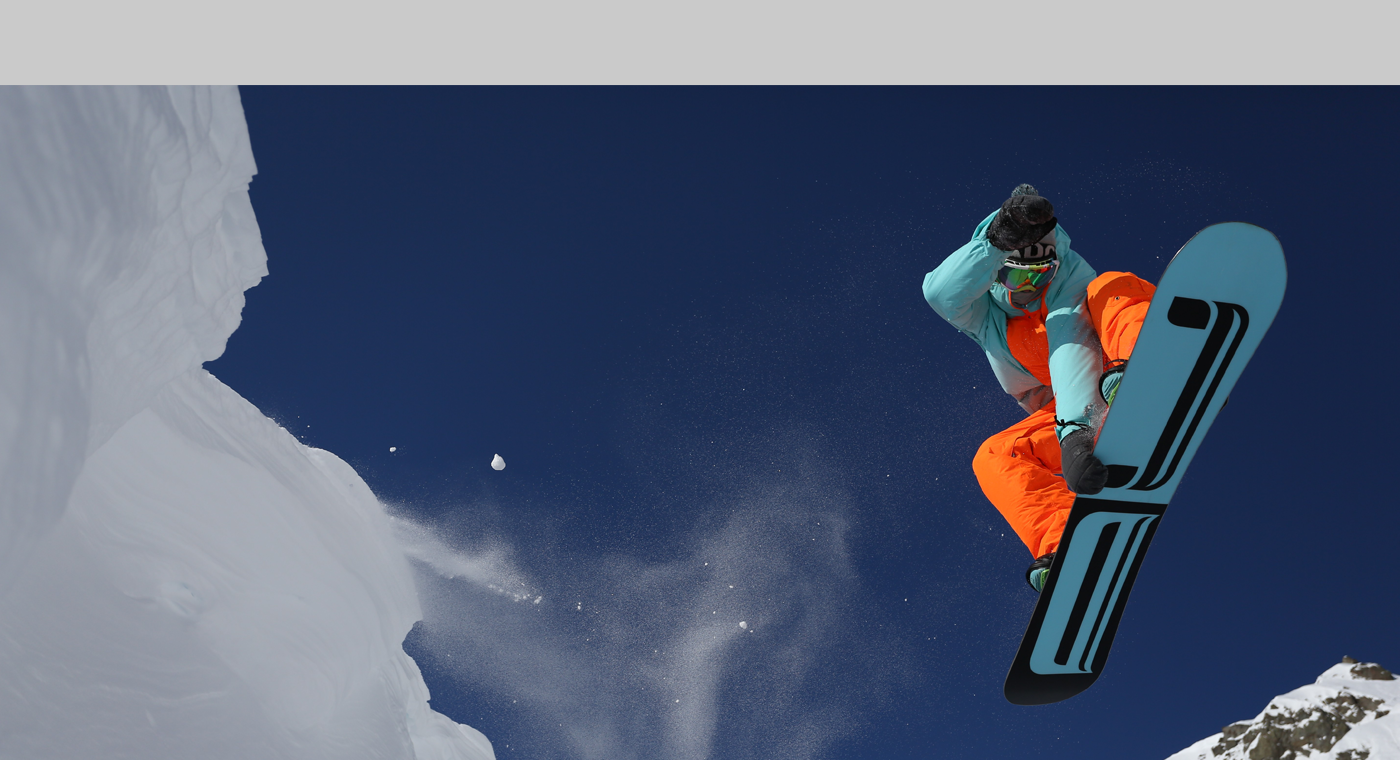
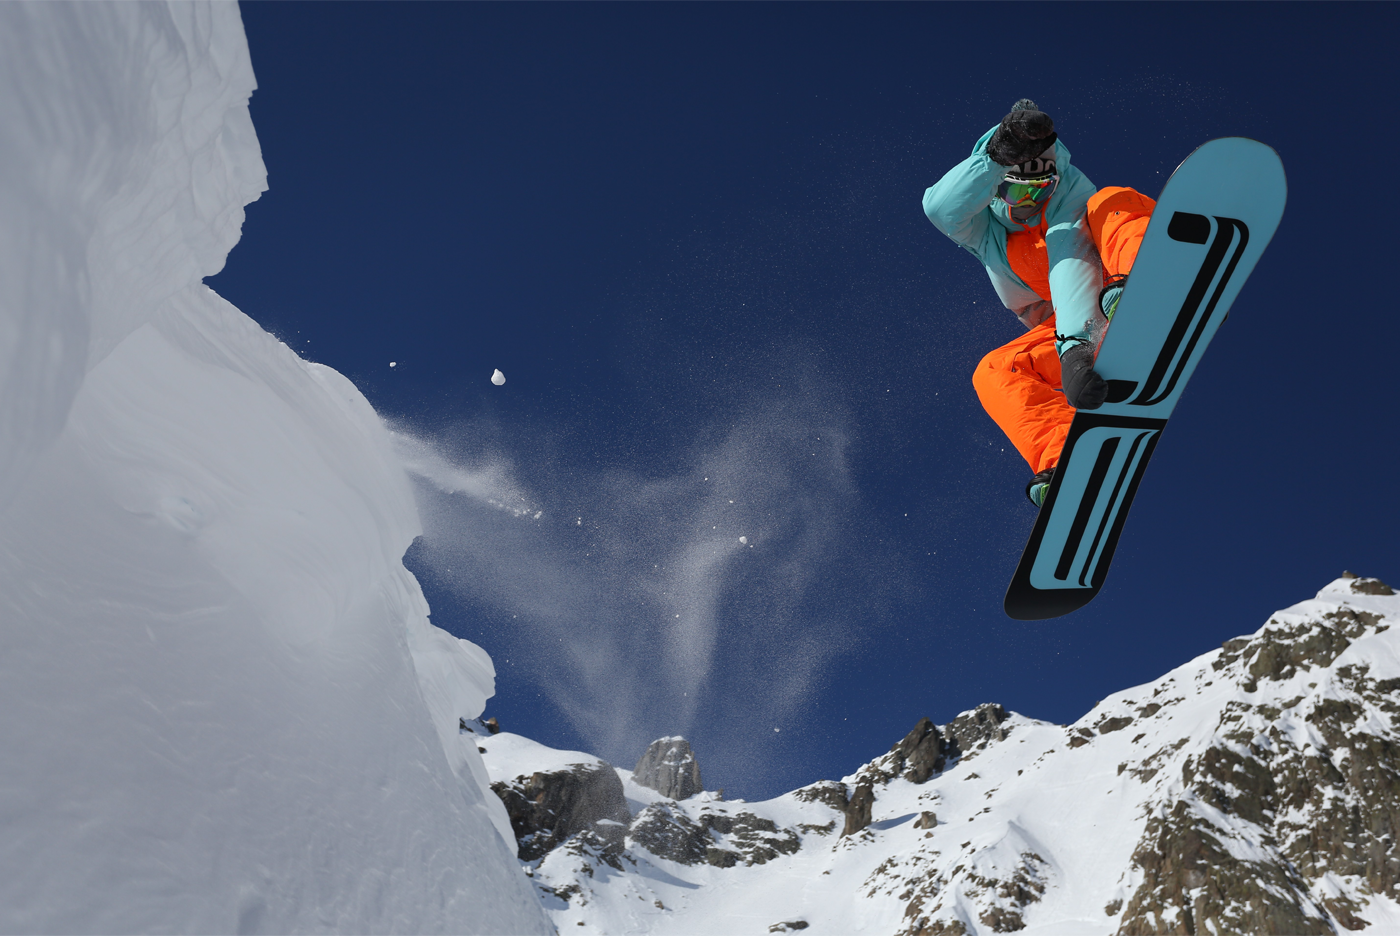
main

diff --git a/app/css/style.min.css b/app/css/style.min.css
@@ -1,1 +1,1 @@
-html{-webkit-box-sizing:border-box;box-sizing:border-box}*,*::before,*::after{-webkit-box-sizing:inherit;box-sizing:inherit}body{font-family:"ProximaNova-Regular";font-size:16px;color:#000;font-weight:400}.container{max-width:1170px;margin:0 auto;padding:0 20px}@font-face{font-family:"ProximaNova-Extrabld";src:url("../fonts/ProximaNova-Extrabld.woff2") format("woff2"),url("../fonts/ProximaNova-Extrabld.woff") format("woff");font-weight:800;font-display:swap}@font-face{font-family:"ProximaNova-Regular";src:url("../fonts/ProximaNova-Regular.woff2") format("woff2"),url("../fonts/ProximaNova-Regular.woff") format("woff");font-weight:400;font-display:swap}@font-face{font-family:"ProximaNova-Semibold";src:url("../fonts/ProximaNova-Semibold.woff2") format("woff2"),url("../fonts/ProximaNova-Semibold.woff") format("woff");font-weight:600;font-display:swap}.header__top{background-color:#000;display:-webkit-box;display:-ms-flexbox;display:flex;-webkit-box-pack:justify;-ms-flex-pack:justify;justify-content:space-between;padding:0 82px;height:109px;-webkit-box-align:center;-ms-flex-align:center;align-items:center}.header__wrap{display:-webkit-box;display:-ms-flexbox;display:flex}.header__list{display:-webkit-box;display:-ms-flexbox;display:flex}.header__list-item{list-style:none}.header__list-link{position:relative;color:#fff;font-weight:600;font-size:13px;text-transform:uppercase;text-decoration:none;margin-right:28px;-webkit-transition:0.5s;-o-transition:0.5s;transition:0.5s}.header__list-link::before{content:"";position:absolute;width:100%;height:2px;background-color:#fff;bottom:-20px;opacity:0;-webkit-transition:0.5s;-o-transition:0.5s;transition:0.5s}.header__list-link:hover{color:#00FFFF}.header__list-link:hover::before{opacity:1}.header__box{display:-webkit-box;display:-ms-flexbox;display:flex}.header__search{margin-right:32px;background-color:#000;height:70px;border-radius:50px;padding:10px}.search-txt{border:none;background-color:none;outline:none;float:left;padding:0;color:#fff;font-size:16px;-webkit-transition:0.5s;-o-transition:0.5s;transition:0.5s;line-height:40px;width:0px;background-color:transparent}.search-btn{color:#fff;float:right;width:40px;height:40px;border-radius:50%;background-color:#000;display:-webkit-box;display:-ms-flexbox;display:flex;-webkit-box-pack:center;-ms-flex-pack:center;justify-content:center;-webkit-box-align:center;-ms-flex-align:center;align-items:center;text-decoration:none}.header__search:hover>.search-txt{width:240px;padding:0 6px}.header__search:hover>.search-btn{background-color:#fff;color:#000}.header__bag{color:#fff;height:70px;padding:20px 10px}.header__bag-link{color:#fff;margin-right:5px}.header__slider{position:relative;max-width:100%;height:100vh;background-position:center top;background-size:cover;margin:0;padding:0;z-index:100}.header__info-one{max-width:480px;text-align:center;position:absolute;top:20%;left:28%}.header__info-two{position:absolute;max-width:500px;text-align:center;top:50%;left:50%;font-size:80px;font-weight:800;font-family:"ProximaNova-Extrabld", sans-serif}.header__info-title--white{text-align:left;display:inline-block;font-size:80px;font-weight:800;color:#fff;text-transform:uppercase}.header__info-link{position:relative;float:right;padding:19px 33px;background-color:#000;color:#fff;font-size:14px;text-transform:uppercase;text-decoration:none;font-weight:800;font-family:"ProximaNova-Extrabld", sans-serif;-webkit-transition:all 300ms ease;-o-transition:all 300ms ease;transition:all 300ms ease}.header__info-link:before{position:absolute;content:'';width:0%;height:100%;background:#fff;top:0;left:auto;right:0;z-index:-1;-webkit-transition:all 300ms ease;-o-transition:all 300ms ease;transition:all 300ms ease}.header__info-link:hover{color:#000;-webkit-box-shadow:none;box-shadow:none;z-index:3}.header__info-link:hover:before{position:absolute;content:'';width:100%;height:100%;background:#fff;top:0;left:0;right:0;z-index:-1}.header__info-two{max-width:480px;text-align:center;position:absolute;top:30%;left:25%}.header__info-title--black{display:inline-block;text-align:left;display:inline-block;font-size:80px;font-weight:800;color:#000;text-transform:uppercase}.snowboards{padding:158px 0}.snowboards__top{text-align:center;padding-bottom:100px;position:relative}.snowboards__top-title{font-family:"ProximaNova-Extrabld", sans-serif;font-size:48px;font-weight:800;text-transform:uppercase;margin-bottom:40px}.snowboards__top-subtext{text-transform:uppercase;font-family:"ProximaNova-Regular", sans-serif;font-size:14px}.close{position:absolute;left:49%;bottom:20%}.close:before,.close:after{content:"";position:absolute;width:32px;height:3px;background:#000}.close:before{webkit-transform:rotate(45deg);-webkit-transform:rotate(45deg);-ms-transform:rotate(45deg);transform:rotate(45deg)}.close:after{webkit-transform:rotate(-45deg);-webkit-transform:rotate(-45deg);-ms-transform:rotate(-45deg);transform:rotate(-45deg)}.snowboards__contents{padding-bottom:50px}.snowboards__slider{margin:0 90px;opacity:0.2;counter-increment:snowboards__slider}.snowboards__slider:before{display:block;text-align:center;content:counter(snowboards__slider);color:transparent}.snowboards__slider.is-selected{opacity:1}.snowboards__wrap-text{font-family:"ProximaNova-Semibold", sans-serif;text-align:center;font-size:24px;text-transform:uppercase}.about{padding:200px 0;background-position:center right;background-size:cover;background-image:url(../images/about/bg.jpg);background-repeat:no-repeat}.about__inner-title{font-family:"ProximaNova-Extrabld", sans-serif;max-width:480px;color:#fff;font-size:48px;text-transform:uppercase;margin-bottom:90px}.about__info{max-width:670px}.about__info-text{font-size:15px;line-height:30px;color:#fff;margin-bottom:50px}.about__info-subtext{font-size:15px;line-height:30px;color:#fff}.features{padding:125px 0}.features__top{text-align:center;margin-bottom:125px;position:relative}.features__top-title{font-family:"ProximaNova-Extrabld", sans-serif;font-size:48px;font-weight:800;text-transform:uppercase;margin-bottom:40px}.close-1{bottom:-50%;position:absolute;left:49%}.close-1:before,.close-1:after{content:"";position:absolute;width:32px;height:3px;background:#000}.close-1:before{webkit-transform:rotate(45deg);-webkit-transform:rotate(45deg);-ms-transform:rotate(45deg);transform:rotate(45deg)}.close-1:after{webkit-transform:rotate(-45deg);-webkit-transform:rotate(-45deg);-ms-transform:rotate(-45deg);transform:rotate(-45deg)}.features__items{-ms-flex-wrap:wrap;flex-wrap:wrap;display:-webkit-box;display:-ms-flexbox;display:flex;-webkit-box-pack:justify;-ms-flex-pack:justify;justify-content:space-between}.features__item{max-width:220px;padding-bottom:20px;margin:0 10px}.features__item-img{margin-bottom:25px}.features__item-title{font-family:"ProximaNova-Semibold", sans-serif;font-size:16px;line-height:30px}.footer{background-color:#000;padding:77px 0}.footer__inner{display:-webkit-box;display:-ms-flexbox;display:flex;-webkit-box-pack:justify;-ms-flex-pack:justify;justify-content:space-between;color:#fff;-ms-flex-wrap:wrap;flex-wrap:wrap;margin:0 auto}.footer__products{margin-right:10px;margin-bottom:30px}.footer__products-title{font-family:"ProximaNova-Extrabld", sans-serif;font-size:17px;text-transform:uppercase;margin-bottom:30px}.footer__list{padding:0}.footer__list-item{list-style:none;margin-bottom:20px}.footer__list-link{color:#c9c9c9;text-decoration:none;-webkit-transition:all 0.5s;-o-transition:all 0.5s;transition:all 0.5s}.footer__list-link:hover{color:#00FFFF}.footer__about{margin-right:10px;margin-bottom:30px}.footer__about-title{font-family:"ProximaNova-Extrabld", sans-serif;font-size:17px;text-transform:uppercase;margin-bottom:30px}.footer__support{margin-right:10px;margin-bottom:30px}.footer__support-title{font-family:"ProximaNova-Extrabld", sans-serif;font-size:17px;text-transform:uppercase;margin-bottom:30px}.footer__newsletter{margin-right:10px;margin-bottom:30px}.footer__newsletter-title{font-family:"ProximaNova-Extrabld", sans-serif;font-size:17px;text-transform:uppercase;margin-bottom:30px}.footer__form{display:-webkit-box;display:-ms-flexbox;display:flex;-webkit-box-pack:end;-ms-flex-pack:end;justify-content:flex-end;max-width:100%;margin-bottom:60px}.footer__input{position:relative;width:220px;height:43px;padding:0 60px 0 15px;outline:none;border:none;font-size:14px;color:#6c6c6c}.footer__btn{display:inline-block;position:absolute;font-family:"ProximaNova-Extrabld", sans-serif;font-size:15px;text-transform:uppercase;outline:none;border:none;background-color:#c7c7c7;padding:13px 17px;cursor:pointer;-webkit-transition:0.5s;-o-transition:0.5s;transition:0.5s}.footer__btn:hover{background-color:#9fc9c9}.footer__messangers{display:-webkit-box;display:-ms-flexbox;display:flex;-webkit-box-pack:justify;-ms-flex-pack:justify;justify-content:space-between}.footer__messangers-link{color:#fff;font-size:20px}.fa-facebook-f{-webkit-transition:all 0.5s;-o-transition:all 0.5s;transition:all 0.5s}.fa-facebook-f:hover{color:#0000FF}.fa-twitter{-webkit-transition:all 0.5s;-o-transition:all 0.5s;transition:all 0.5s}.fa-twitter:hover{color:#00BFFF}.fa-instagram{-webkit-transition:all 0.5s;-o-transition:all 0.5s;transition:all 0.5s}.fa-instagram:hover{color:#FF0000}.fa-pinterest-p{-webkit-transition:all 0.5s;-o-transition:all 0.5s;transition:all 0.5s}.fa-pinterest-p:hover{color:#DC143C}.fa-youtube{-webkit-transition:all 0.5s;-o-transition:all 0.5s;transition:all 0.5s}.fa-youtube:hover{color:#800000}@media (max-width: 1154px){.header__search:hover>.search-txt{width:140px;padding:0 6px}}@media (max-width: 1057px){.header__search:hover>.search-txt{width:120px;padding:0 6px}}@media (max-width: 1041px){.header__search:hover>.search-txt{width:120px;padding:0 6px}.menu-btn{position:absolute;right:0;display:-webkit-box;display:-ms-flexbox;display:flex;-webkit-box-pack:center;-ms-flex-pack:center;justify-content:center;-webkit-box-align:center;-ms-flex-align:center;align-items:center;width:80px;height:80px;cursor:pointer;-webkit-transition:all .5s ease-in-out;-o-transition:all .5s ease-in-out;transition:all .5s ease-in-out}.menu-btn__burger{width:40px;height:4px;background:#fff;border-radius:5px;-webkit-box-shadow:0 2px 5px rgba(255,101,47,0.2);box-shadow:0 2px 5px rgba(255,101,47,0.2);-webkit-transition:all .5s ease-in-out;-o-transition:all .5s ease-in-out;transition:all .5s ease-in-out}.menu-btn__burger::before,.menu-btn__burger::after{content:'';position:absolute;width:40px;height:4px;background:#fff;border-radius:5px;-webkit-box-shadow:0 2px 5px rgba(255,101,47,0.2);box-shadow:0 2px 5px rgba(255,101,47,0.2);-webkit-transition:all .5s ease-in-out;-o-transition:all .5s ease-in-out;transition:all .5s ease-in-out}.menu-btn__burger::before{-webkit-transform:translateY(-16px);-ms-transform:translateY(-16px);transform:translateY(-16px)}.menu-btn__burger::after{-webkit-transform:translateY(16px);-ms-transform:translateY(16px);transform:translateY(16px)}.menu-btn.open .menu-btn__burger{-webkit-transform:translateX(-50px);-ms-transform:translateX(-50px);transform:translateX(-50px);background:transparent;-webkit-box-shadow:none;box-shadow:none}.menu-btn.open .menu-btn__burger::before{-webkit-transform:rotate(45deg) translate(35px, -35px);-ms-transform:rotate(45deg) translate(35px, -35px);transform:rotate(45deg) translate(35px, -35px)}.menu-btn.open .menu-btn__burger::after{-webkit-transform:rotate(-45deg) translate(35px, 35px);-ms-transform:rotate(-45deg) translate(35px, 35px);transform:rotate(-45deg) translate(35px, 35px)}.header__list{display:none;position:absolute;top:93px;left:0;right:0;width:100%;z-index:1000;background-color:#ffffff;bottom:-130px;padding:37px;border-bottom:4px solid #11749e}.header__list-item{display:block;text-align:center;padding:30px 0}.header__list-link{color:#000;font-size:25px}.header__search{display:none}.header__bag{display:none}}@media (max-width: 748px){.header__info-title--white{font-size:60px}.header__info-title--black{font-size:60px}.header__info-link{-webkit-box-align:center;-ms-flex-align:center;align-items:center;float:none;position:relative;right:-10%}}@media (max-width: 525px){.header__slider{background-position:right}}@media (max-width: 511px){.header__info-one{left:5%}.header__info-two{left:5%}.header__info-title--white{font-size:40px;max-width:320px}.header__info-title--black{font-size:40px;max-width:320px}.header__info-link{-webkit-box-align:center;-ms-flex-align:center;align-items:center;float:none;position:relative;right:5%}}@media (max-width: 512px){.features__item{margin:0 auto}}@media (max-width: 445px){.about__inner-title{font-size:30px;width:none;text-align:center}}@media (max-width: 352px){.snowboards__top-title{font-size:30px}.snowboards__wrap-text{font-size:20px}}@media (max-width: 340px){.footer__inner{-webkit-box-pack:center;-ms-flex-pack:center;justify-content:center;text-align:center;-webkit-box-align:center;-ms-flex-align:center;align-items:center;text-align:center}}
+html{-webkit-box-sizing:border-box;box-sizing:border-box}*,*::before,*::after{-webkit-box-sizing:inherit;box-sizing:inherit}body{font-family:"ProximaNova-Regular";font-size:16px;color:#000;font-weight:400}.container{max-width:1170px;margin:0 auto;padding:0 20px}@font-face{font-family:"ProximaNova-Extrabld";src:url("../fonts/ProximaNova-Extrabld.woff2") format("woff2"),url("../fonts/ProximaNova-Extrabld.woff") format("woff");font-weight:800;font-display:swap}@font-face{font-family:"ProximaNova-Regular";src:url("../fonts/ProximaNova-Regular.woff2") format("woff2"),url("../fonts/ProximaNova-Regular.woff") format("woff");font-weight:400;font-display:swap}@font-face{font-family:"ProximaNova-Semibold";src:url("../fonts/ProximaNova-Semibold.woff2") format("woff2"),url("../fonts/ProximaNova-Semibold.woff") format("woff");font-weight:600;font-display:swap}.header__top{background-color:#000;display:-webkit-box;display:-ms-flexbox;display:flex;-webkit-box-pack:justify;-ms-flex-pack:justify;justify-content:space-between;padding:0 82px;height:109px;-webkit-box-align:center;-ms-flex-align:center;align-items:center}.header__wrap{display:-webkit-box;display:-ms-flexbox;display:flex}.header__list{display:-webkit-box;display:-ms-flexbox;display:flex}.header__list-item{list-style:none}.header__list-link{position:relative;color:#fff;font-weight:600;font-size:13px;text-transform:uppercase;text-decoration:none;margin-right:28px;-webkit-transition:0.5s;-o-transition:0.5s;transition:0.5s}.header__list-link::before{content:"";position:absolute;width:100%;height:2px;background-color:#fff;bottom:-20px;opacity:0;-webkit-transition:0.5s;-o-transition:0.5s;transition:0.5s}.header__list-link:hover{color:#00FFFF}.header__list-link:hover::before{opacity:1}.header__box{display:-webkit-box;display:-ms-flexbox;display:flex}.header__search{margin-right:32px;background-color:#000;height:70px;border-radius:50px;padding:10px}.search-txt{border:none;background-color:none;outline:none;float:left;padding:0;color:#fff;font-size:16px;-webkit-transition:0.5s;-o-transition:0.5s;transition:0.5s;line-height:40px;width:0px;background-color:transparent}.search-btn{color:#fff;float:right;width:40px;height:40px;border-radius:50%;background-color:#000;display:-webkit-box;display:-ms-flexbox;display:flex;-webkit-box-pack:center;-ms-flex-pack:center;justify-content:center;-webkit-box-align:center;-ms-flex-align:center;align-items:center;text-decoration:none}.header__search:hover>.search-txt{width:240px;padding:0 6px}.header__search:hover>.search-btn{background-color:#fff;color:#000}.header__bag{color:#fff;height:70px;padding:20px 10px}.header__bag-link{color:#fff;margin-right:5px}.header__slider{position:relative;max-width:1300px;height:100vh;background-position:center top;background-size:cover;margin:0;padding:0;z-index:100}.header__info-one{max-width:480px;text-align:center;position:absolute;top:20%;left:28%}.header__info-two{position:absolute;max-width:500px;text-align:center;top:50%;left:50%;font-size:80px;font-weight:800;font-family:"ProximaNova-Extrabld", sans-serif}.header__info-title--white{text-align:left;display:inline-block;font-size:80px;font-weight:800;color:#fff;text-transform:uppercase}.header__info-link{position:relative;float:right;padding:19px 33px;background-color:#000;color:#fff;font-size:14px;text-transform:uppercase;text-decoration:none;font-weight:800;font-family:"ProximaNova-Extrabld", sans-serif;-webkit-transition:all 300ms ease;-o-transition:all 300ms ease;transition:all 300ms ease}.header__info-link:before{position:absolute;content:'';width:0%;height:100%;background:#fff;top:0;left:auto;right:0;z-index:-1;-webkit-transition:all 300ms ease;-o-transition:all 300ms ease;transition:all 300ms ease}.header__info-link:hover{color:#000;-webkit-box-shadow:none;box-shadow:none;z-index:3}.header__info-link:hover:before{position:absolute;content:'';width:100%;height:100%;background:#fff;top:0;left:0;right:0;z-index:-1}.header__info-two{max-width:480px;text-align:center;position:absolute;top:30%;left:25%}.header__info-title--black{display:inline-block;text-align:left;display:inline-block;font-size:80px;font-weight:800;color:#000;text-transform:uppercase}.snowboards{padding:158px 0}.snowboards__top{text-align:center;padding-bottom:100px;position:relative}.snowboards__top-title{font-family:"ProximaNova-Extrabld", sans-serif;font-size:48px;font-weight:800;text-transform:uppercase;margin-bottom:40px}.snowboards__top-subtext{text-transform:uppercase;font-family:"ProximaNova-Regular", sans-serif;font-size:14px}.close{position:absolute;left:49%;bottom:20%}.close:before,.close:after{content:"";position:absolute;width:32px;height:3px;background:#000}.close:before{webkit-transform:rotate(45deg);-webkit-transform:rotate(45deg);-ms-transform:rotate(45deg);transform:rotate(45deg)}.close:after{webkit-transform:rotate(-45deg);-webkit-transform:rotate(-45deg);-ms-transform:rotate(-45deg);transform:rotate(-45deg)}.snowboards__contents{padding-bottom:50px}.snowboards__slider{margin:0 90px;opacity:0.2;counter-increment:snowboards__slider}.snowboards__slider:before{display:block;text-align:center;content:counter(snowboards__slider);color:transparent}.snowboards__slider.is-selected{opacity:1}.snowboards__wrap-text{font-family:"ProximaNova-Semibold", sans-serif;text-align:center;font-size:24px;text-transform:uppercase}.about{padding:200px 0;background-position:center right;background-size:cover;background-repeat:no-repeat}.about__inner-title{font-family:"ProximaNova-Extrabld", sans-serif;max-width:480px;color:#fff;font-size:48px;text-transform:uppercase;margin-bottom:90px}.about__info{max-width:670px}.about__info-text{font-size:15px;line-height:30px;color:#fff;margin-bottom:50px}.about__info-subtext{font-size:15px;line-height:30px;color:#fff}.features{padding:125px 0}.features__top{text-align:center;margin-bottom:125px;position:relative}.features__top-title{font-family:"ProximaNova-Extrabld", sans-serif;font-size:48px;font-weight:800;text-transform:uppercase;margin-bottom:40px}.close-1{bottom:-50%;position:absolute;left:49%}.close-1:before,.close-1:after{content:"";position:absolute;width:32px;height:3px;background:#000}.close-1:before{webkit-transform:rotate(45deg);-webkit-transform:rotate(45deg);-ms-transform:rotate(45deg);transform:rotate(45deg)}.close-1:after{webkit-transform:rotate(-45deg);-webkit-transform:rotate(-45deg);-ms-transform:rotate(-45deg);transform:rotate(-45deg)}.features__items{-ms-flex-wrap:wrap;flex-wrap:wrap;display:-webkit-box;display:-ms-flexbox;display:flex;-webkit-box-pack:justify;-ms-flex-pack:justify;justify-content:space-between}.features__item{max-width:220px;padding-bottom:20px;margin:0 10px}.features__item-img{margin-bottom:25px}.features__item-title{font-family:"ProximaNova-Semibold", sans-serif;font-size:16px;line-height:30px}.footer{background-color:#000;padding:77px 0}.footer__inner{display:-webkit-box;display:-ms-flexbox;display:flex;-webkit-box-pack:justify;-ms-flex-pack:justify;justify-content:space-between;color:#fff;-ms-flex-wrap:wrap;flex-wrap:wrap;margin:0 auto}.footer__products{margin-right:10px;margin-bottom:30px}.footer__products-title{font-family:"ProximaNova-Extrabld", sans-serif;font-size:17px;text-transform:uppercase;margin-bottom:30px}.footer__list{padding:0}.footer__list-item{list-style:none;margin-bottom:20px}.footer__list-link{color:#c9c9c9;text-decoration:none;-webkit-transition:all 0.5s;-o-transition:all 0.5s;transition:all 0.5s}.footer__list-link:hover{color:#00FFFF}.footer__about{margin-right:10px;margin-bottom:30px}.footer__about-title{font-family:"ProximaNova-Extrabld", sans-serif;font-size:17px;text-transform:uppercase;margin-bottom:30px}.footer__support{margin-right:10px;margin-bottom:30px}.footer__support-title{font-family:"ProximaNova-Extrabld", sans-serif;font-size:17px;text-transform:uppercase;margin-bottom:30px}.footer__newsletter{margin-right:10px;margin-bottom:30px}.footer__newsletter-title{font-family:"ProximaNova-Extrabld", sans-serif;font-size:17px;text-transform:uppercase;margin-bottom:30px}.footer__form{display:-webkit-box;display:-ms-flexbox;display:flex;-webkit-box-pack:end;-ms-flex-pack:end;justify-content:flex-end;max-width:100%;margin-bottom:60px}.footer__input{position:relative;width:220px;height:43px;padding:0 60px 0 15px;outline:none;border:none;font-size:14px;color:#6c6c6c}.footer__btn{display:inline-block;position:absolute;font-family:"ProximaNova-Extrabld", sans-serif;font-size:15px;text-transform:uppercase;outline:none;border:none;background-color:#c7c7c7;padding:13px 17px;cursor:pointer;-webkit-transition:0.5s;-o-transition:0.5s;transition:0.5s}.footer__btn:hover{background-color:#9fc9c9}.footer__messangers{display:-webkit-box;display:-ms-flexbox;display:flex;-webkit-box-pack:justify;-ms-flex-pack:justify;justify-content:space-between}.footer__messangers-link{color:#fff;font-size:20px}.fa-facebook-f{-webkit-transition:all 0.5s;-o-transition:all 0.5s;transition:all 0.5s}.fa-facebook-f:hover{color:#0000FF}.fa-twitter{-webkit-transition:all 0.5s;-o-transition:all 0.5s;transition:all 0.5s}.fa-twitter:hover{color:#00BFFF}.fa-instagram{-webkit-transition:all 0.5s;-o-transition:all 0.5s;transition:all 0.5s}.fa-instagram:hover{color:#FF0000}.fa-pinterest-p{-webkit-transition:all 0.5s;-o-transition:all 0.5s;transition:all 0.5s}.fa-pinterest-p:hover{color:#DC143C}.fa-youtube{-webkit-transition:all 0.5s;-o-transition:all 0.5s;transition:all 0.5s}.fa-youtube:hover{color:#800000}@media (max-width: 1154px){.header__search:hover>.search-txt{width:140px;padding:0 6px}}@media (max-width: 1057px){.header__search:hover>.search-txt{width:120px;padding:0 6px}}@media (max-width: 1041px){.header__search:hover>.search-txt{width:120px;padding:0 6px}.menu-btn{position:absolute;right:0;display:-webkit-box;display:-ms-flexbox;display:flex;-webkit-box-pack:center;-ms-flex-pack:center;justify-content:center;-webkit-box-align:center;-ms-flex-align:center;align-items:center;width:80px;height:80px;cursor:pointer;-webkit-transition:all .5s ease-in-out;-o-transition:all .5s ease-in-out;transition:all .5s ease-in-out}.menu-btn__burger{width:40px;height:4px;background:#fff;border-radius:5px;-webkit-box-shadow:0 2px 5px rgba(255,101,47,0.2);box-shadow:0 2px 5px rgba(255,101,47,0.2);-webkit-transition:all .5s ease-in-out;-o-transition:all .5s ease-in-out;transition:all .5s ease-in-out}.menu-btn__burger::before,.menu-btn__burger::after{content:'';position:absolute;width:40px;height:4px;background:#fff;border-radius:5px;-webkit-box-shadow:0 2px 5px rgba(255,101,47,0.2);box-shadow:0 2px 5px rgba(255,101,47,0.2);-webkit-transition:all .5s ease-in-out;-o-transition:all .5s ease-in-out;transition:all .5s ease-in-out}.menu-btn__burger::before{-webkit-transform:translateY(-16px);-ms-transform:translateY(-16px);transform:translateY(-16px)}.menu-btn__burger::after{-webkit-transform:translateY(16px);-ms-transform:translateY(16px);transform:translateY(16px)}.menu-btn.open .menu-btn__burger{-webkit-transform:translateX(-50px);-ms-transform:translateX(-50px);transform:translateX(-50px);background:transparent;-webkit-box-shadow:none;box-shadow:none}.menu-btn.open .menu-btn__burger::before{-webkit-transform:rotate(45deg) translate(35px, -35px);-ms-transform:rotate(45deg) translate(35px, -35px);transform:rotate(45deg) translate(35px, -35px)}.menu-btn.open .menu-btn__burger::after{-webkit-transform:rotate(-45deg) translate(35px, 35px);-ms-transform:rotate(-45deg) translate(35px, 35px);transform:rotate(-45deg) translate(35px, 35px)}.header__list{display:none;position:absolute;top:93px;left:0;right:0;width:100%;z-index:1000;background-color:#ffffff;bottom:-130px;padding:37px;border-bottom:4px solid #11749e}.header__list-item{display:block;text-align:center;padding:30px 0}.header__list-link{color:#000;font-size:25px}.header__search{display:none}.header__bag{display:none}}@media (max-width: 748px){.header__info-title--white{font-size:60px}.header__info-title--black{font-size:60px}.header__info-link{-webkit-box-align:center;-ms-flex-align:center;align-items:center;float:none;position:relative;right:-10%}}@media (max-width: 525px){.header__slider{background-position:right}}@media (max-width: 511px){.header__info-one{left:5%}.header__info-two{left:5%}.header__info-title--white{font-size:40px;max-width:320px}.header__info-title--black{font-size:40px;max-width:320px}.header__info-link{-webkit-box-align:center;-ms-flex-align:center;align-items:center;float:none;position:relative;right:5%}}@media (max-width: 512px){.features__item{margin:0 auto}}@media (max-width: 445px){.about__inner-title{font-size:30px;width:none;text-align:center}}@media (max-width: 352px){.snowboards__top-title{font-size:30px}.snowboards__wrap-text{font-size:20px}}@media (max-width: 340px){.footer__inner{-webkit-box-pack:center;-ms-flex-pack:center;justify-content:center;text-align:center;-webkit-box-align:center;-ms-flex-align:center;align-items:center;text-align:center}}

diff --git a/app/scss/style.scss b/app/scss/style.scss
@@ -138,7 +138,7 @@
 
 .header__slider {
     position: relative;
-    max-width: 100%;
+    max-width: 1300px;
     height: 100vh;
     background-position:  center top;
     background-size: cover;
